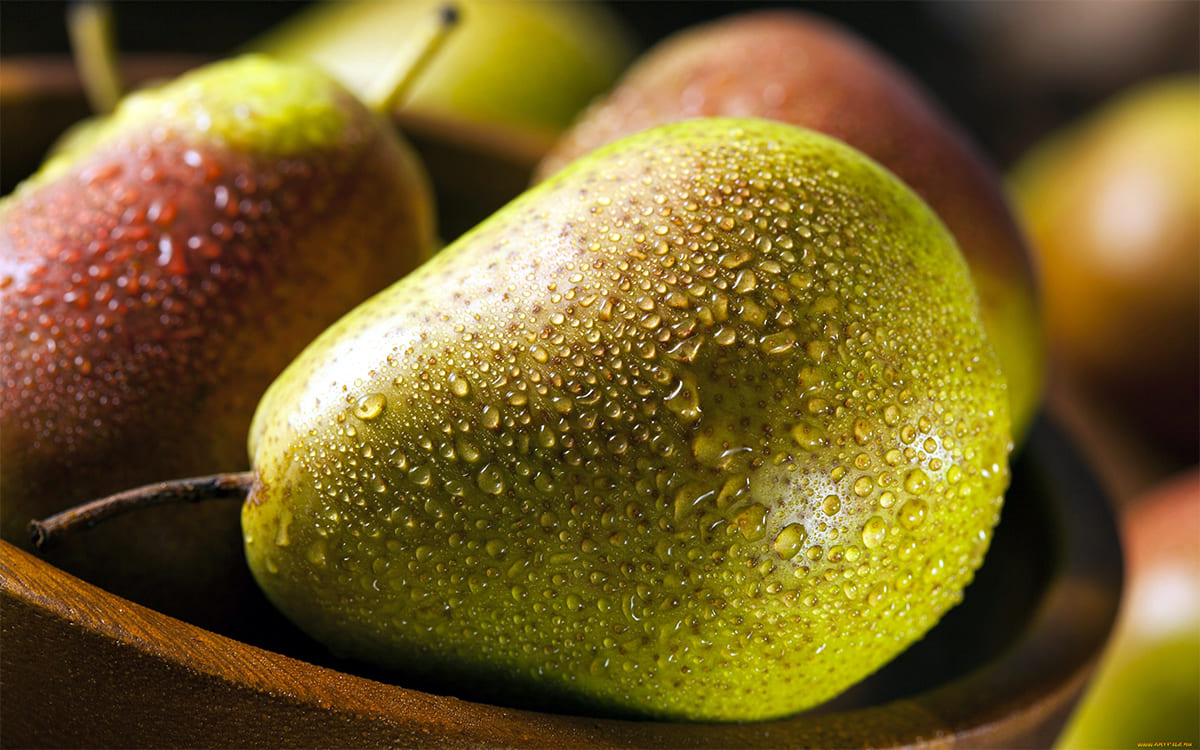
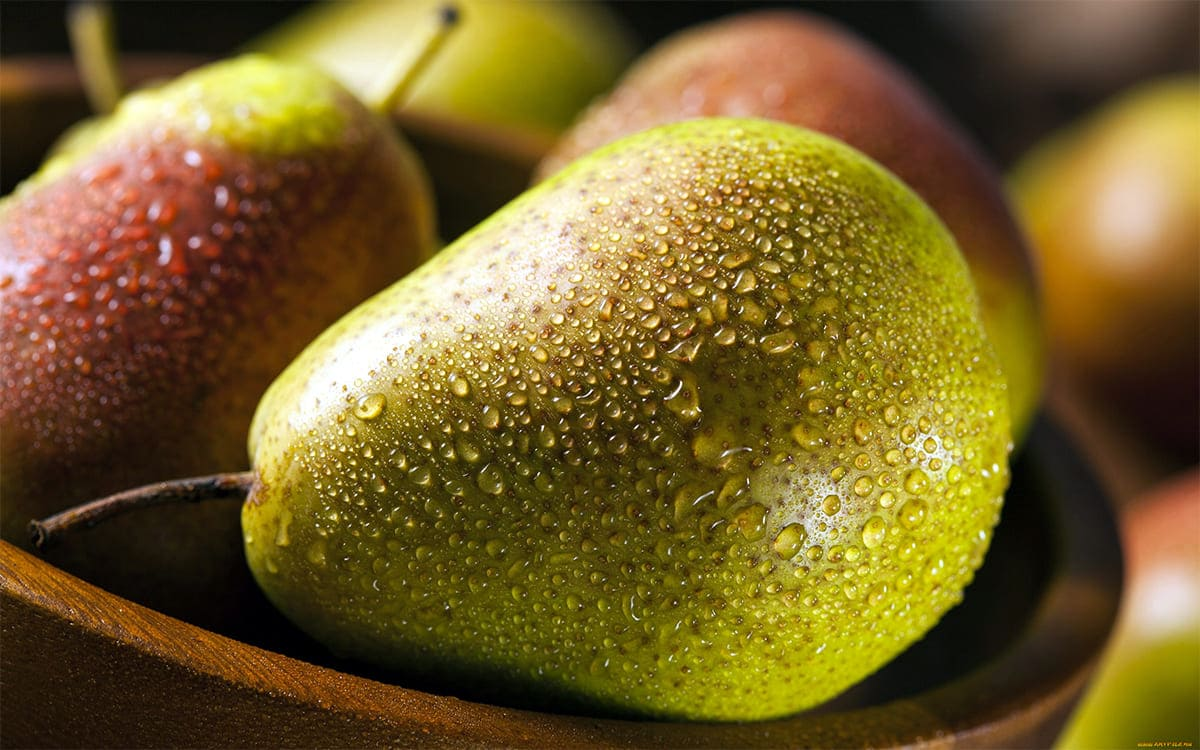
Добавлены перекусы, обед и ужин для 20.01: Голубика, Шоколадные маффина (с составом), Летний салат, Бурый рис, Конверты. Обновлена логика переключения состава для альтернативных блюд. Добавлены сжатые изображения

diff --git a/docs/index.html b/docs/index.html
@@ -2436,6 +2436,7 @@
             <span class="plan-day" data-day="5">Сб 17.01</span>
             <span class="plan-day" data-day="6">Вс 18.01</span>
             <span class="plan-day" data-day="7">Пн 19.01</span>
+            <span class="plan-day" data-day="8">Вт 20.01</span>
         </div>
         <div class="plan-price-block active" id="planPriceBlock" data-day="1">
             <div class="plan-price">
@@ -3601,6 +3602,104 @@
                         }
                     ]
                 }
+            ],
+            // Вт 20.01
+            [
+                { 
+                    meal: 'Завтрак', 
+                    image: 'zavtrak1.png', 
+                    name: 'Вареное яйцо', 
+                    calories: '', 
+                    description: 'Вареное яйцо - полезное и сытное блюдо для начала дня. Нежное яйцо с хлебцами и творожным сыром создают идеальный баланс белка и питательности.',
+                    ingredients: [
+                        {
+                            title: 'Состав',
+                            items: [
+                                'Яйцо вареное',
+                                'Сёмга молосольное',
+                                'Хлебцы 2шт',
+                                'Творожный сыр'
+                            ]
+                        }
+                    ],
+                    alternateImage: 'zavtrak2.png',
+                    alternateName: 'Хлебцы с твор.сыром и сёмгой',
+                    alternateMeal: 'Завтрак'
+                },
+                { 
+                    meal: 'Первый перекус', 
+                    image: 'perekus.png', 
+                    name: 'Голубика 100гр', 
+                    calories: '', 
+                    description: 'Питательный перекус для поддержания энергии между основными приемами пищи.',
+                    ingredients: [],
+                    alternateImage: 'perekus2.jpg',
+                    alternateName: 'Шоколадные маффина',
+                    alternateMeal: 'Второй перекус',
+                    alternateIngredients: [
+                        {
+                            title: 'Состав',
+                            items: [
+                                'Творог 100гр',
+                                'Яйцо 1шт',
+                                'Какао 20гр',
+                                'Разрыхлитель',
+                                'Ванилин',
+                                'Сах.заменитель'
+                            ]
+                        }
+                    ]
+                },
+                { 
+                    meal: 'Обед', 
+                    image: 'ujin.png', 
+                    name: 'Летний салат', 
+                    calories: '',
+                    description: 'Летний салат - легкое и полезное блюдо. Свежие овощи с яйцами и сыром создают идеальный баланс белка и витаминов.',
+                    ingredients: [
+                        {
+                            title: 'Состав (Летний салат)',
+                            items: [
+                                'Яйца куриные 2шт',
+                                'Сыр легкий 20гр',
+                                'Кукуруза консер. без сахара 5 ст.л',
+                                'Огурцы свежие 100гр',
+                                'Петрушка',
+                                'Натуральный йогурт',
+                                'Горчица',
+                                'Оливковое масло',
+                                'Лимонный сок',
+                                'Соль, Перец'
+                            ]
+                        },
+                        {
+                            title: 'Состав (Бурый рис)',
+                            items: [
+                                'Бурый рис'
+                            ]
+                        }
+                    ],
+                    alternateImage: 'obed2.jpg',
+                    alternateName: 'Бурый рис',
+                    alternateMeal: 'Обед'
+                },
+                { 
+                    meal: 'Ужин', 
+                    image: 'ujin.png', 
+                    name: 'Конверты', 
+                    calories: '', 
+                    description: 'Конверты - сытное и полезное блюдо для ужина. Нежная куриная грудка с ветчиной и сыром создают идеальный баланс белка и вкуса.',
+                    ingredients: [
+                        {
+                            title: 'Состав',
+                            items: [
+                                'Куриная грудка',
+                                'Ветчина индейки',
+                                'Легкий сыр'
+                            ]
+                        }
+                    ]
+                }
             ]
         ];
         
@@ -3681,6 +3780,7 @@
                     const cardImage = card.querySelector('.card-image');
                     const cardName = card.querySelector('.card-name');
                     const cardMeal = card.querySelector('.card-meal');
+                    const cardIngredients = card.querySelector('.plan-card-ingredients');
                     let isAlternate = false;
                     
                     setInterval(() => {
@@ -3689,6 +3789,7 @@
                             cardImage.style.opacity = '0';
                             cardName.style.opacity = '0';
                             if (cardMeal) cardMeal.style.opacity = '0';
+                            if (cardIngredients) cardIngredients.style.opacity = '0';
                             setTimeout(() => {
                                 cardImage.src = `images/${dayFolder}/${product.alternateImage}`;
                                 cardImage.alt = product.alternateName;
@@ -3696,14 +3797,22 @@
                                 if (cardMeal && product.alternateMeal) {
                                     cardMeal.textContent = product.alternateMeal;
                                 }
+                                // Обновляем состав, если есть alternateIngredients
+                                if (cardIngredients && product.alternateIngredients) {
+                                    const alternateIngredientsHTML = generateIngredientsHTML(product.alternateIngredients);
+                                    cardIngredients.innerHTML = alternateIngredientsHTML;
+                                    card.setAttribute('data-ingredients', JSON.stringify(product.alternateIngredients));
+                                }
                                 cardImage.style.opacity = '1';
                                 cardName.style.opacity = '1';
                                 if (cardMeal) cardMeal.style.opacity = '1';
+                                if (cardIngredients) cardIngredients.style.opacity = '1';
                             }, 300);
                         } else {
                             cardImage.style.opacity = '0';
                             cardName.style.opacity = '0';
                             if (cardMeal) cardMeal.style.opacity = '0';
+                            if (cardIngredients) cardIngredients.style.opacity = '0';
                             setTimeout(() => {
                                 cardImage.src = `images/${dayFolder}/${product.image}`;
                                 cardImage.alt = product.name;
@@ -3711,9 +3820,16 @@
                                 if (cardMeal) {
                                     cardMeal.textContent = product.meal;
                                 }
+                                // Возвращаем исходный состав
+                                if (cardIngredients && product.ingredients) {
+                                    const originalIngredientsHTML = generateIngredientsHTML(product.ingredients);
+                                    cardIngredients.innerHTML = originalIngredientsHTML;
+                                    card.setAttribute('data-ingredients', JSON.stringify(product.ingredients));
+                                }
                                 cardImage.style.opacity = '1';
                                 cardName.style.opacity = '1';
                                 if (cardMeal) cardMeal.style.opacity = '1';
+                                if (cardIngredients) cardIngredients.style.opacity = '1';
                             }, 300);
                         }
                     }, 2000);
@@ -4014,7 +4130,8 @@
             null, // Пт 16.01 - нет цены
             null, // Сб 17.01 - нет цены
             null, // Вс 18.01 - нет цены
-            null  // Пн 19.01 - нет цены
+            null, // Пн 19.01 - нет цены
+            null  // Вт 20.01 - нет цены
         ];
         
         // Функция для обновления цен
